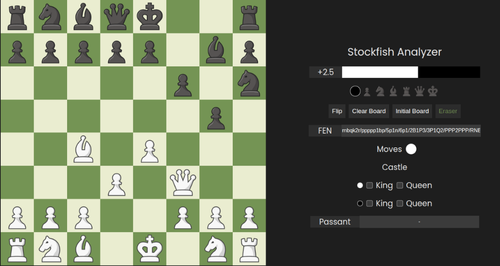
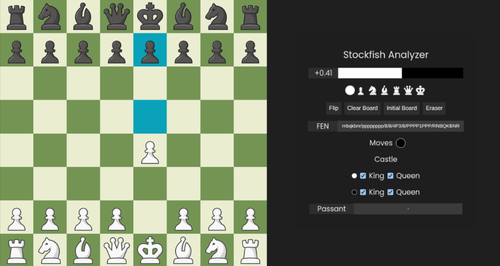
UPDATE STOCKFISHWEB IMAGE

diff --git a/build/index.html b/build/index.html
@@ -8,7 +8,7 @@
     <link href="https://fonts.googleapis.com/css2?family=Funnel+Sans:ital,wght@0,300..800;1,300..800&family=Manrope:wght@200..800&family=Poppins:ital,wght@0,100;0,200;0,300;0,400;0,500;0,600;0,700;0,800;0,900;1,100;1,200;1,300;1,400;1,500;1,600;1,700;1,800;1,900&display=swap" rel="stylesheet">
     <meta name="viewport" content="width=device-width, initial-scale=1.0" />
     <title>Christopher Serna Flores</title>
-    <script type="module" crossorigin src="/assets/index-CW6Kvta7.js"></script>
+    <script type="module" crossorigin src="/assets/index-71KgdSW1.js"></script>
     <link rel="stylesheet" crossorigin href="/assets/index-DtSb7goO.css">
   </head>
   <body>
